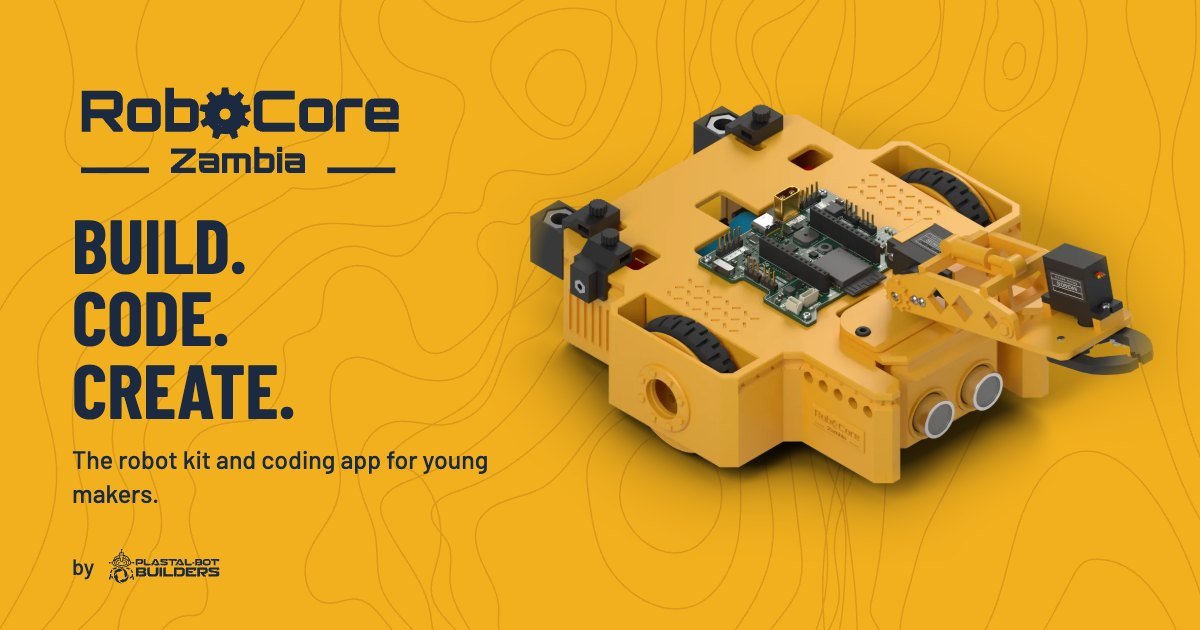
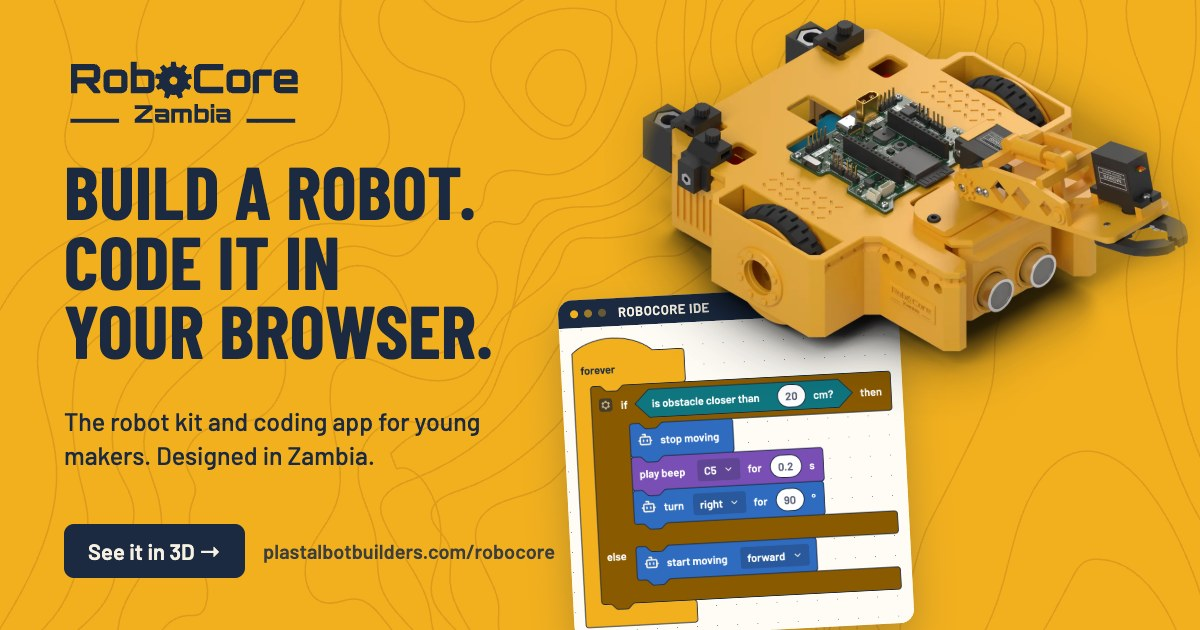
feat: a share card that makes people click
The image a shared /robocore link shows (og:image, 1200x630, 131 KB) now
leads with a promise, "Build a robot. Code it in your browser.", the robot,
and a real RoboCore IDE block program beside it, with "See it in 3D" and the
address. It stays readable at phone-feed size.

prerender.js takes a per-route imageAlt for og:image:alt and
twitter:image:alt; other routes keep the organisation's line.

diff --git a/scripts/prerender.js b/scripts/prerender.js
@@ -238,6 +238,8 @@ function headTags(route) {
   const isCard = (route.image || DEFAULT_IMAGE).startsWith('/resources/social/');
   const url = abs(route.path);
   const robots = route.robots || 'index, follow, max-image-preview:large, max-snippet:-1';
+  // A route with its own share card can describe it; the others use the organisation's line.
+  const imageAlt = route.imageAlt || `${ORG.name} — robotics and STEM education in Zambia`;
   return [
     `<title>${esc(route.title)}</title>`,
     `<meta name="description" content="${esc(route.description)}"/>`,
@@ -255,13 +257,13 @@ function headTags(route) {
       `<meta property="og:image:width" content="1200"/>`,
       `<meta property="og:image:height" content="630"/>`,
     ] : []),
-    `<meta property="og:image:alt" content="${esc(ORG.name)} — robotics and STEM education in Zambia"/>`,
+    `<meta property="og:image:alt" content="${esc(imageAlt)}"/>`,
     `<meta property="og:locale" content="en_ZM"/>`,
     `<meta name="twitter:card" content="summary_large_image"/>`,
     `<meta name="twitter:title" content="${esc(route.title)}"/>`,
     `<meta name="twitter:description" content="${esc(route.description)}"/>`,
     `<meta name="twitter:image" content="${esc(image)}"/>`,
-    `<meta name="twitter:image:alt" content="${esc(ORG.name)} — robotics and STEM education in Zambia"/>`,
+    `<meta name="twitter:image:alt" content="${esc(imageAlt)}"/>`,
     `<script type="application/ld+json">${jsonLd(route)}</script>`,
   ].join('\n    ');
 }

diff --git a/scripts/seo/site-manifest.js b/scripts/seo/site-manifest.js
@@ -328,6 +328,8 @@ const ROUTES = [
     description:
       'RoboCore is a robot you build yourself and a coding app to bring it to life: drag-and-drop blocks or Arduino C++, in the browser. Designed in Zambia by Plastal-Bot Builders.',
     image: '/resources/social/og-robocore.jpg',
+    imageAlt:
+      'Build a robot. Code it in your browser. The yellow RoboCore V2 robot beside a RoboCore IDE program made of blocks.',
     breadcrumb: [{ name: 'RoboCore', path: '/robocore' }],
     body: {
       h1: 'RoboCore — the robot kit and coding app for young makers',

diff --git a/src/components/RoboCore/README.md b/src/components/RoboCore/README.md
@@ -51,7 +51,11 @@ the stand, the flyer and the website say the same thing. The rules:
   51 mm above the board), merges same-colour materials, decimates the big parts to about 220k triangles in all, joins
   everything into one mesh and compresses it with Draco (the decoder is in `public/draco/`). A 110k-triangle copy lost
   the gear teeth on the arm, so phones get the same model.
-- **Project tile** (`robocore-card.webp`) and **share card** (`og-robocore.jpg`): the hero render on the box yellow with
-  the contour lines, drawn in HTML and captured with headless Chrome so they use the real fonts and logo.
+- **Share card** (`og-robocore.jpg`, 1200 × 630, about 130 KB, the image a shared link shows): "Build a robot. Code it in
+  your browser." with the hero render and a real block program (the "Robot obstacle avoider" example's forever stack,
+  captured from the IDE) on the box yellow. Drawn in HTML with the real fonts, logo and contour lines and captured with
+  headless Chrome. Its alt text is `imageAlt` in the manifest. Keep the headline readable at about 480 px wide (a
+  phone feed).
+- **Project tile** (`robocore-card.webp`): the hero render on the box yellow with the contour lines, made the same way.
 - **Plastal-Bot logo in navy** (`plastal-bot-builders-navy.svg`): `RoboCore_Event_Branding/assets/plastal_logo.svg`
   with its ink set to the RoboCore navy, for the yellow backgrounds.
